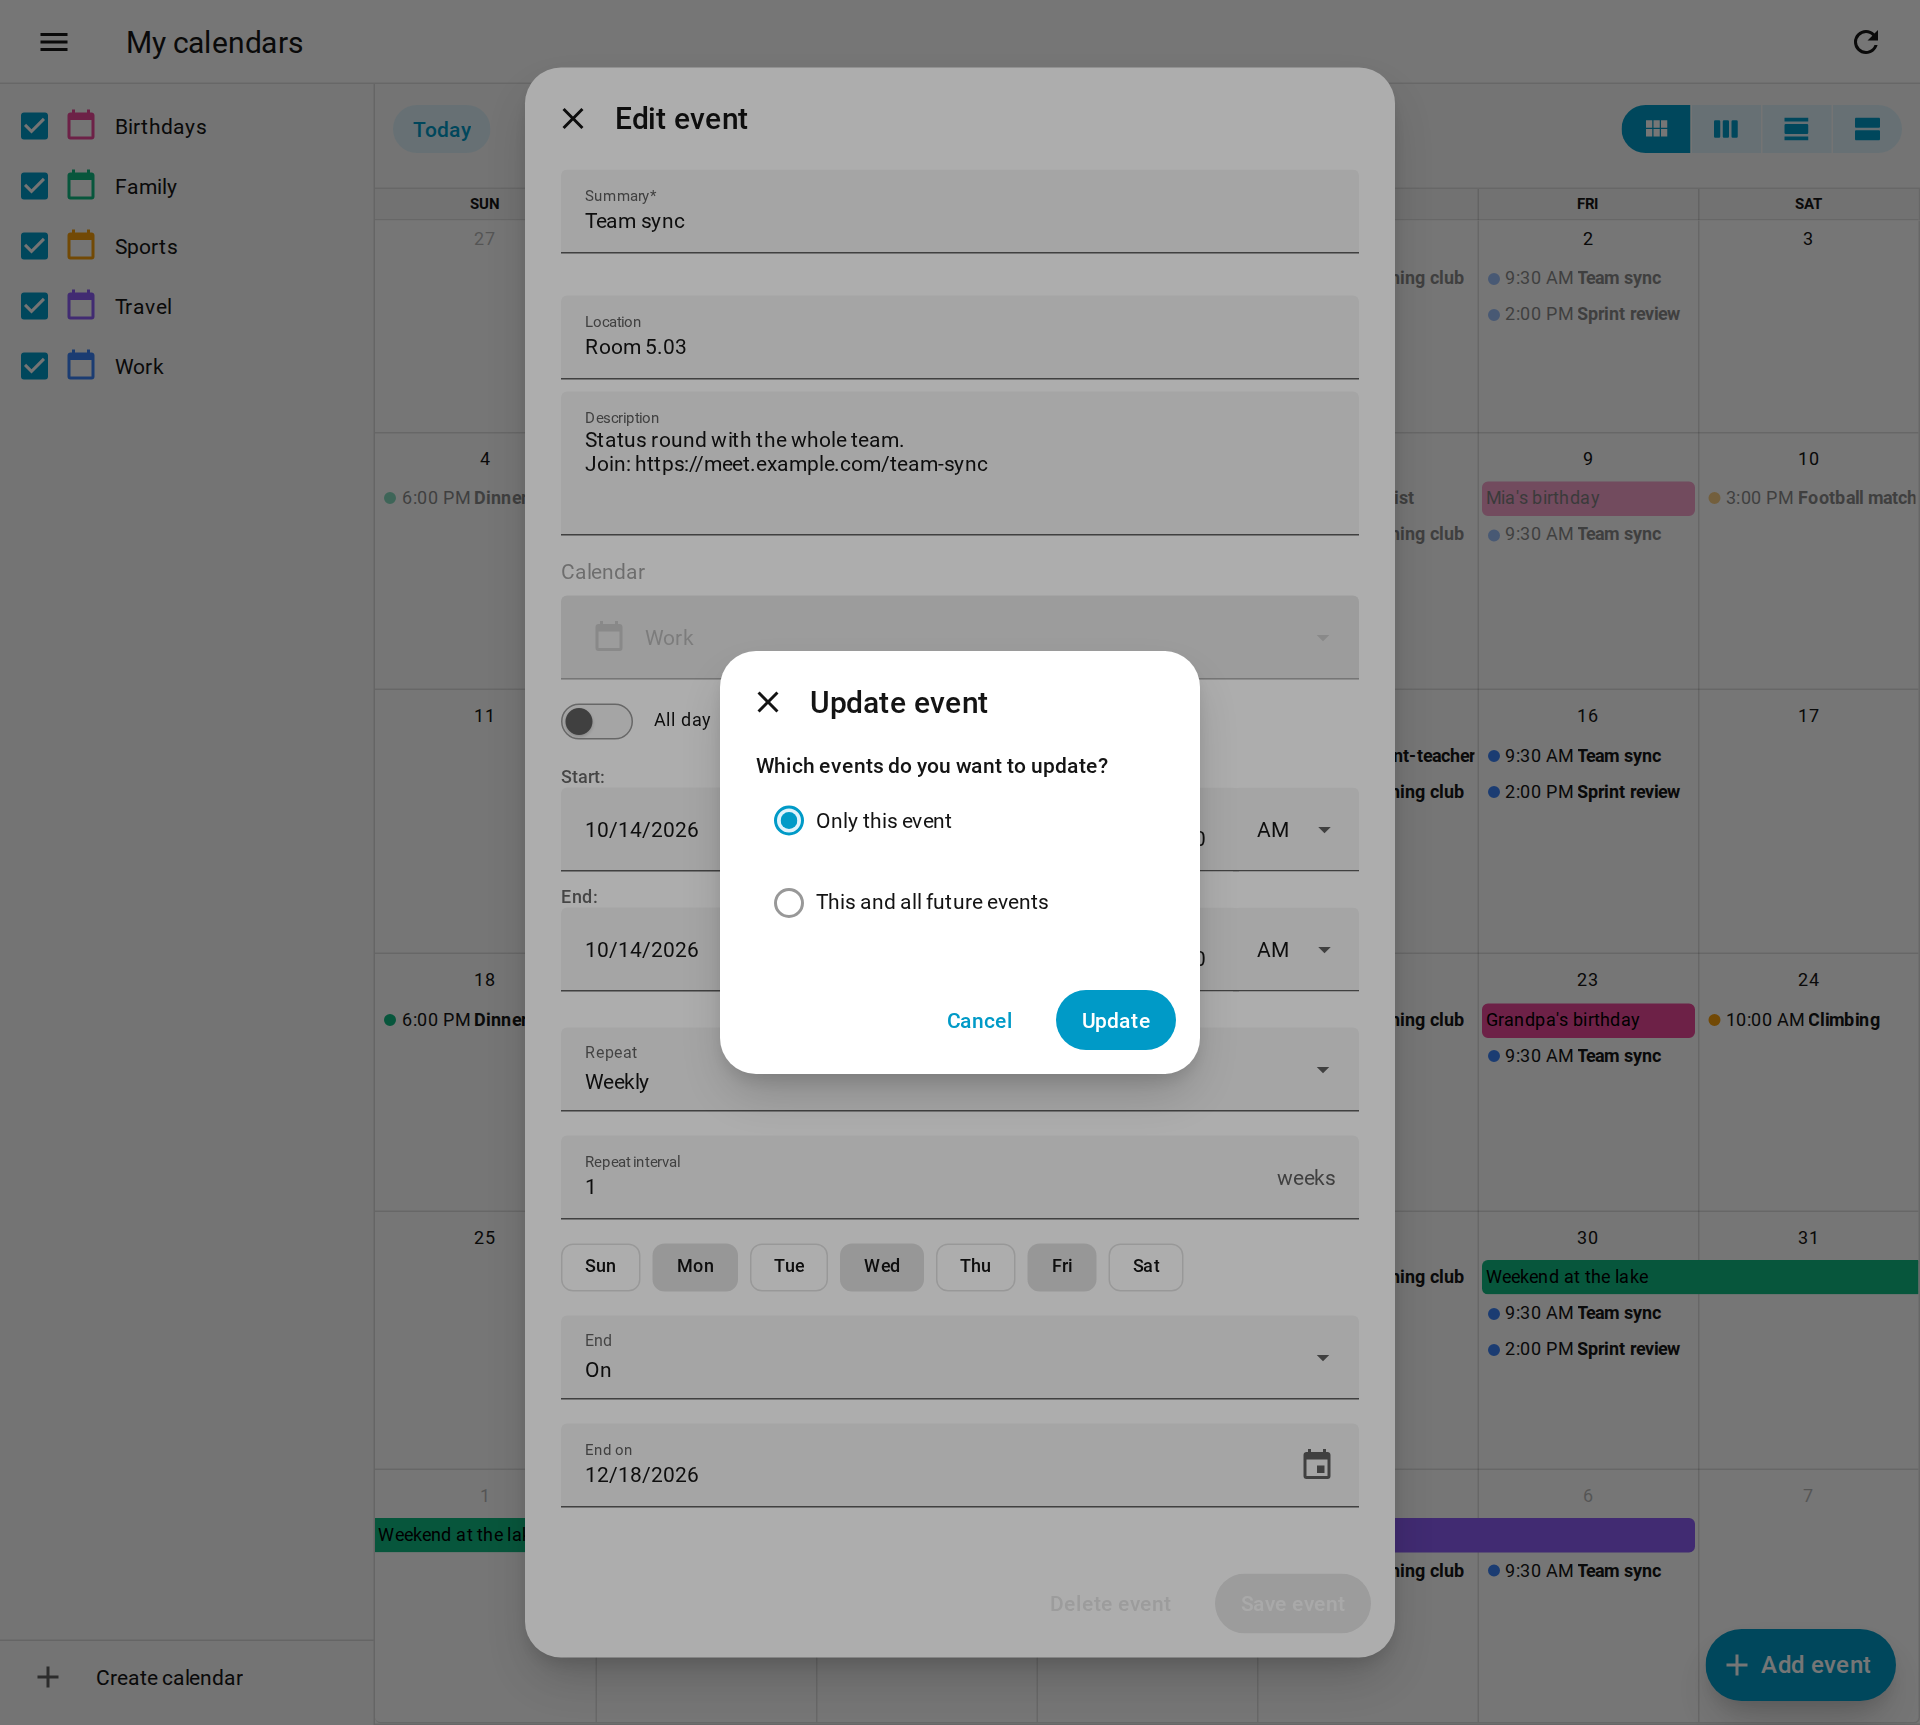
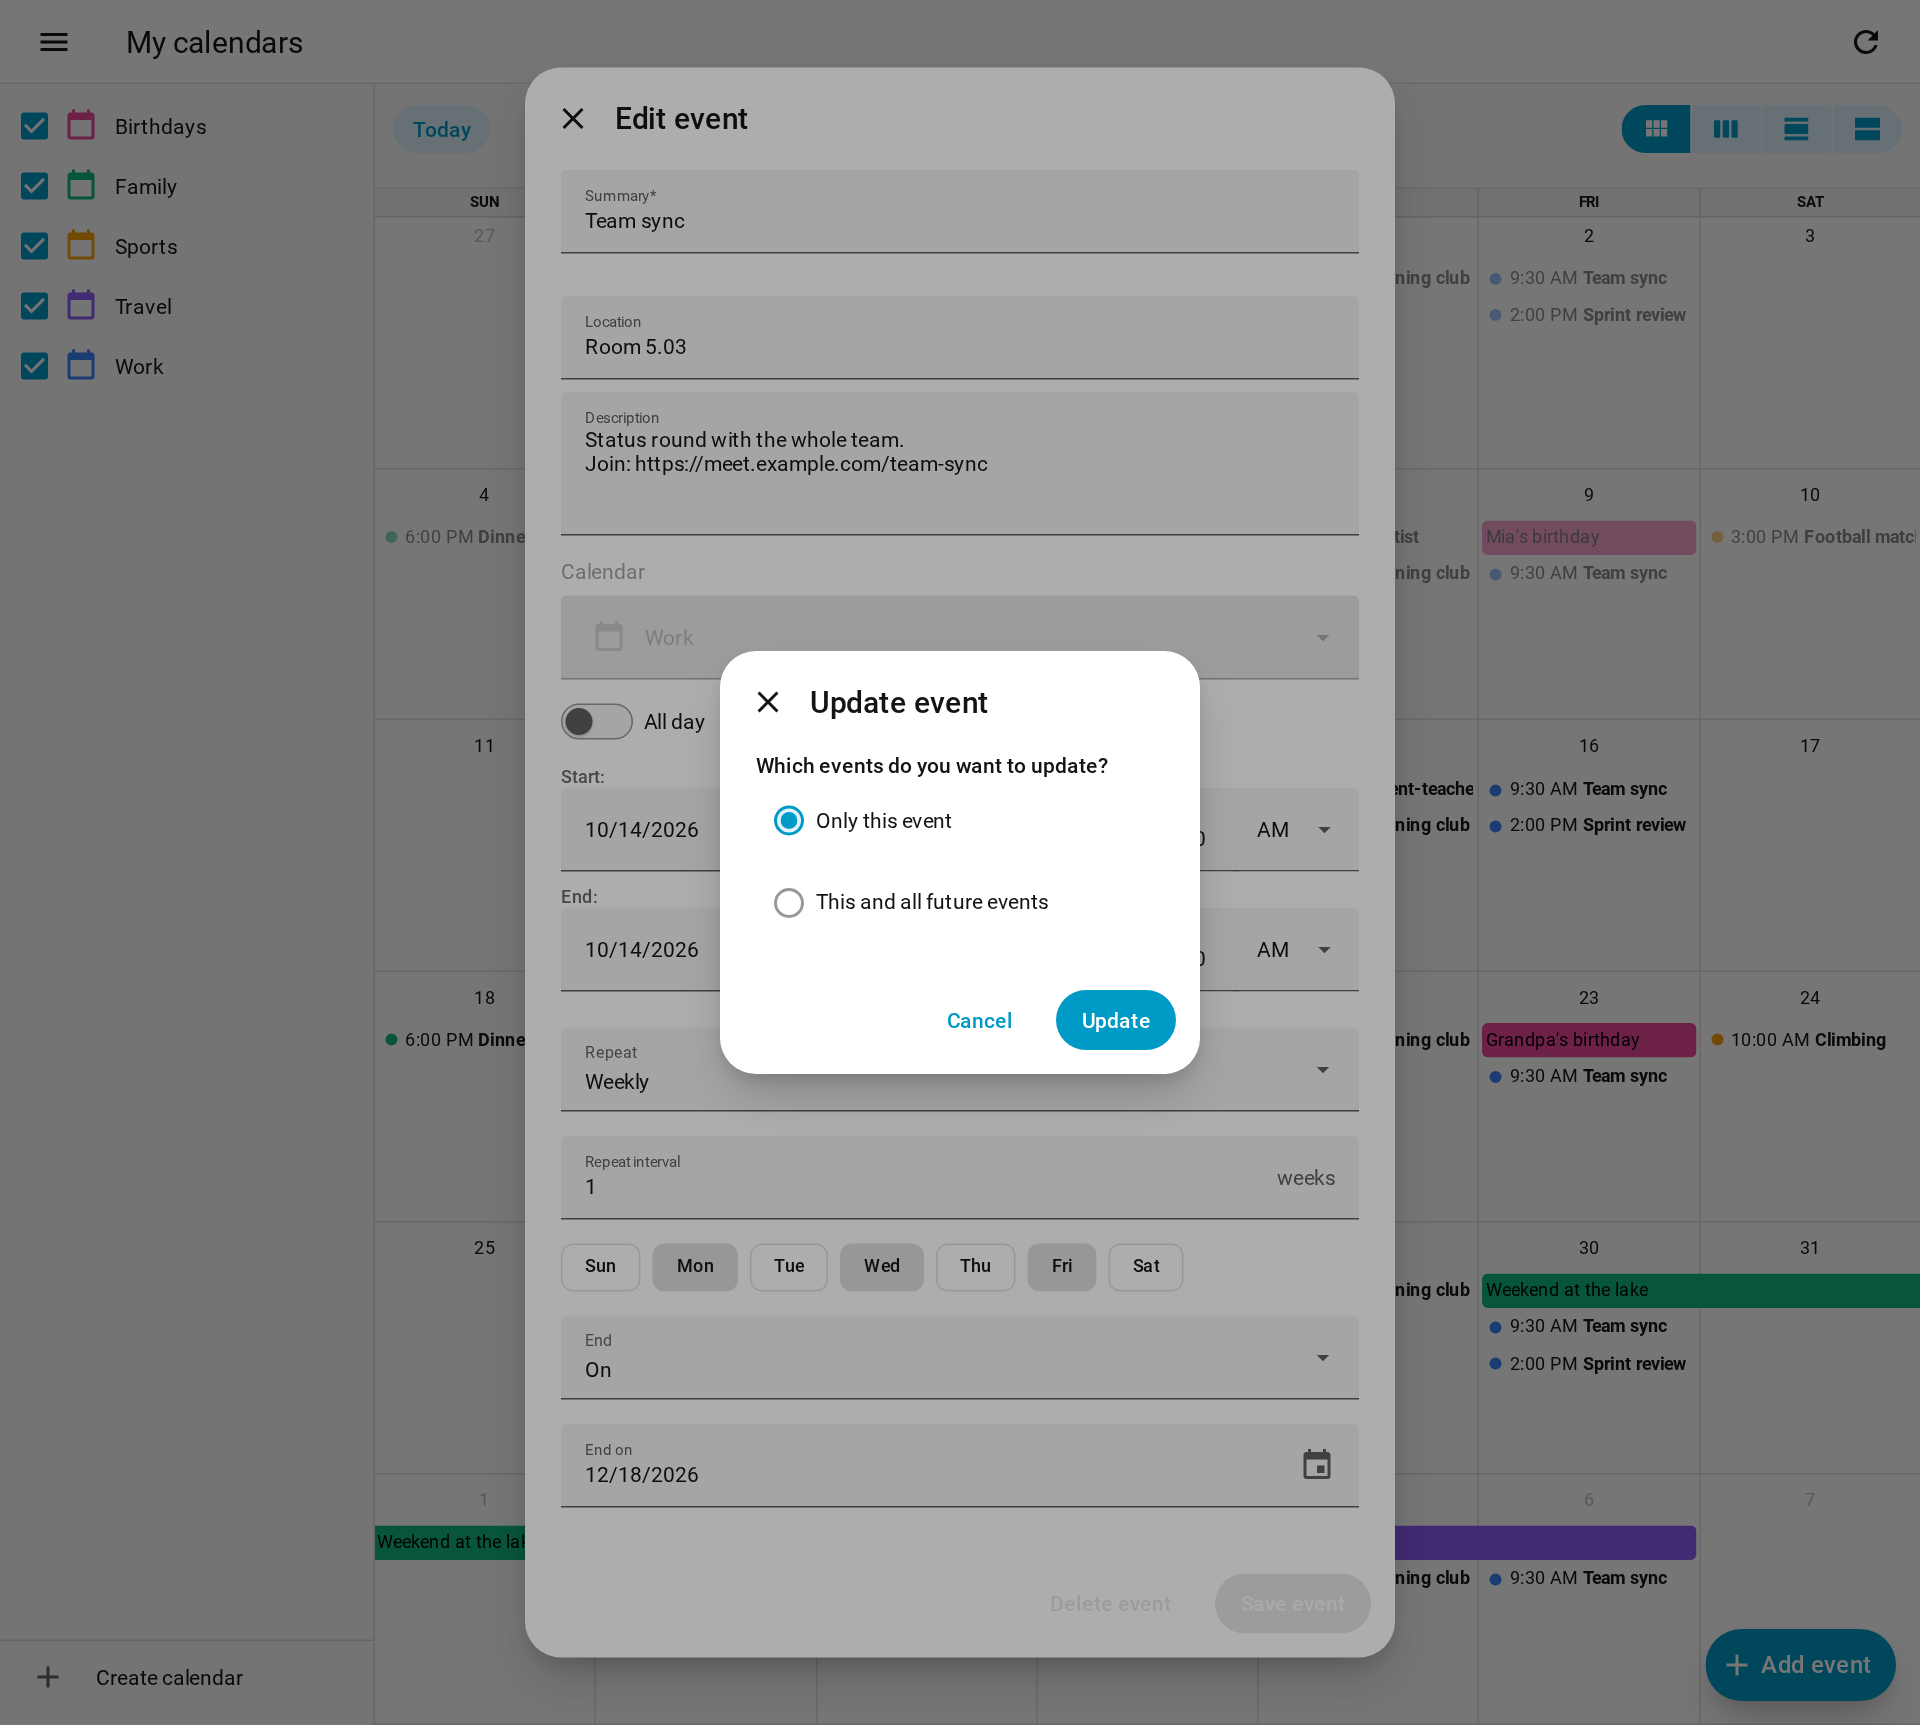
ci: test with Home Assistant's own test package
Changed
- Tests run on pytest-homeassistant instead of the discontinued pytest-homeassistant-custom-component, the oldest Home Assistant stays on the old one
- Renovate also offers the betas of pytest-homeassistant
- The README screenshots come from Home Assistant 2026.11

Fixed
- The screenshot script found no events in the new calendar of Home Assistant 2026.11
- A test set up a device-disabled entity that Home Assistant 2026.11 no longer keeps

diff --git a/tests/test_init.py b/tests/test_init.py
@@ -24,10 +24,7 @@ from homeassistant.helpers import (
 from homeassistant.helpers.entity_component import EntityComponent
 from homeassistant.util import dt as dt_util
 import pytest
-from pytest_homeassistant_custom_component.common import (
-    MockConfigEntry,
-    async_fire_time_changed,
-)
+from pytest_homeassistant.common import MockConfigEntry, async_fire_time_changed
 
 from custom_components.ha_caldav import async_migrate_entry
 from custom_components.ha_caldav.capability import Delegation
@@ -866,7 +863,7 @@ async def test_an_entity_carries_the_calendar_name_alone(hass: HomeAssistant) ->
     assert hass.states.get("todo.personal").name == "Personal"
 
 
-def _older_install(hass: HomeAssistant, **entity: object) -> MockConfigEntry:
+def _older_install(hass: HomeAssistant) -> MockConfigEntry:
     entry = MockConfigEntry(domain=DOMAIN, title="iven", data=ENTRY_DATA, unique_id="x")
     entry.add_to_hass(hass)
     device = dr.async_get(hass).async_get_or_create(
@@ -882,7 +879,6 @@ def _older_install(hass: HomeAssistant, **entity: object) -> MockConfigEntry:
         suggested_object_id="iven_personal",
         config_entry=entry,
         device_id=device.id,
-        **entity,
     )
     return entry
 
@@ -918,7 +914,11 @@ async def test_an_entity_disabled_with_the_account_device_stays_disabled(
     hass: HomeAssistant,
 ) -> None:
     # Only a device being enabled again clears a device disabler.
-    entry = _older_install(hass, disabled_by=er.RegistryEntryDisabler.DEVICE)
+    entry = _older_install(hass)
+    devices = dr.async_get(hass)
+    [device] = dr.async_entries_for_config_entry(devices, entry.entry_id)
+    devices.async_update_device(device.id, disabled_by=dr.DeviceEntryDisabler.USER)
+    await hass.async_block_till_done()
 
     await _setup_existing(hass, entry)
 

diff --git a/tests/test_diagnostics.py b/tests/test_diagnostics.py
@@ -9,7 +9,7 @@ from homeassistant.components.diagnostics import REDACTED
 from homeassistant.const import CONF_PASSWORD, CONF_URL, CONF_USERNAME, CONF_VERIFY_SSL
 from homeassistant.core import HomeAssistant
 from homeassistant.util import dt as dt_util
-from pytest_homeassistant_custom_component.common import MockConfigEntry
+from pytest_homeassistant.common import MockConfigEntry
 
 from custom_components.ha_caldav.capability import Capability
 from custom_components.ha_caldav.const import (

diff --git a/tests/test_color.py b/tests/test_color.py
@@ -11,10 +11,7 @@ from homeassistant.helpers import entity_registry as er
 from homeassistant.helpers.update_coordinator import UpdateFailed
 from homeassistant.util import dt as dt_util
 import pytest
-from pytest_homeassistant_custom_component.common import (
-    MockConfigEntry,
-    async_fire_time_changed,
-)
+from pytest_homeassistant.common import MockConfigEntry, async_fire_time_changed
 import requests
 
 from custom_components.ha_caldav.calendar import COLOR_STATE

diff --git a/tests/test_connection.py b/tests/test_connection.py
@@ -10,7 +10,7 @@ from caldav.lib.error import AuthorizationError
 from homeassistant.const import CONF_PASSWORD, CONF_URL, CONF_USERNAME, CONF_VERIFY_SSL
 from homeassistant.core import HomeAssistant
 import pytest
-from pytest_homeassistant_custom_component.common import MockConfigEntry
+from pytest_homeassistant.common import MockConfigEntry
 
 from custom_components.ha_caldav.capability import Capability
 from custom_components.ha_caldav.connection import (

diff --git a/tests/test_live.py b/tests/test_live.py
@@ -1910,7 +1910,7 @@ async def test_a_trigger_window_in_any_zone_finds_what_starts_in_it(
     from datetime import timedelta
     from zoneinfo import ZoneInfo
 
-    from pytest_homeassistant_custom_component.common import MockConfigEntry
+    from pytest_homeassistant.common import MockConfigEntry
 
     from custom_components.ha_caldav.api import import_ics
     from custom_components.ha_caldav.capability import Capability

diff --git a/tests/test_malformed.py b/tests/test_malformed.py
@@ -22,7 +22,7 @@ from homeassistant.util import dt as dt_util
 from hypothesis import HealthCheck, given, settings, strategies as st
 from icalendar import Calendar as ICalCalendar, Event as ICalEvent, vRecur
 import pytest
-from pytest_homeassistant_custom_component.common import MockConfigEntry
+from pytest_homeassistant.common import MockConfigEntry
 
 from custom_components.ha_caldav.api import (
     create_event,

diff --git a/tests/test_sharing.py b/tests/test_sharing.py
@@ -8,7 +8,7 @@ from homeassistant.core import Context, HomeAssistant
 from homeassistant.exceptions import Unauthorized
 from lxml import etree
 import pytest
-from pytest_homeassistant_custom_component.common import MockConfigEntry, MockUser
+from pytest_homeassistant.common import MockConfigEntry, MockUser
 
 from custom_components.ha_caldav.const import DOMAIN
 from custom_components.ha_caldav.errors import Refused

diff --git a/tests/test_todo.py b/tests/test_todo.py
@@ -15,7 +15,7 @@ from homeassistant.core import HomeAssistant
 from homeassistant.exceptions import HomeAssistantError, ServiceValidationError
 from homeassistant.helpers.entity_component import EntityComponent
 import pytest
-from pytest_homeassistant_custom_component.common import MockConfigEntry
+from pytest_homeassistant.common import MockConfigEntry
 from test_subtasks import TodoList, _task
 import vobject
 

diff --git a/tests/test_journal.py b/tests/test_journal.py
@@ -10,7 +10,7 @@ from homeassistant.exceptions import ServiceValidationError
 from homeassistant.util import dt as dt_util
 from icalendar import Calendar as ICalCalendar
 import pytest
-from pytest_homeassistant_custom_component.common import MockConfigEntry
+from pytest_homeassistant.common import MockConfigEntry
 import voluptuous as vol
 
 from custom_components.ha_caldav.api import export_ics, import_ics

diff --git a/tests/test_capability.py b/tests/test_capability.py
@@ -9,7 +9,7 @@ from caldav.lib.error import DAVError
 from homeassistant.const import CONF_PASSWORD, CONF_URL, CONF_USERNAME, CONF_VERIFY_SSL
 from homeassistant.core import HomeAssistant
 import pytest
-from pytest_homeassistant_custom_component.common import MockConfigEntry
+from pytest_homeassistant.common import MockConfigEntry
 import requests
 
 from custom_components.ha_caldav.capability import (

diff --git a/tests/test_todo_services.py b/tests/test_todo_services.py
@@ -6,7 +6,7 @@ from homeassistant.core import Context, HomeAssistant
 from homeassistant.exceptions import ServiceValidationError, Unauthorized
 from homeassistant.util import dt as dt_util
 import pytest
-from pytest_homeassistant_custom_component.common import MockConfigEntry, MockUser
+from pytest_homeassistant.common import MockConfigEntry, MockUser
 import vobject
 import voluptuous as vol
 

diff --git a/tests/test_config_flow.py b/tests/test_config_flow.py
@@ -22,7 +22,7 @@ from homeassistant.const import (
 from homeassistant.core import HomeAssistant
 from homeassistant.data_entry_flow import FlowResultType, section
 import pytest
-from pytest_homeassistant_custom_component.common import MockConfigEntry
+from pytest_homeassistant.common import MockConfigEntry
 import urllib3
 
 from custom_components.ha_caldav.capability import Capability
